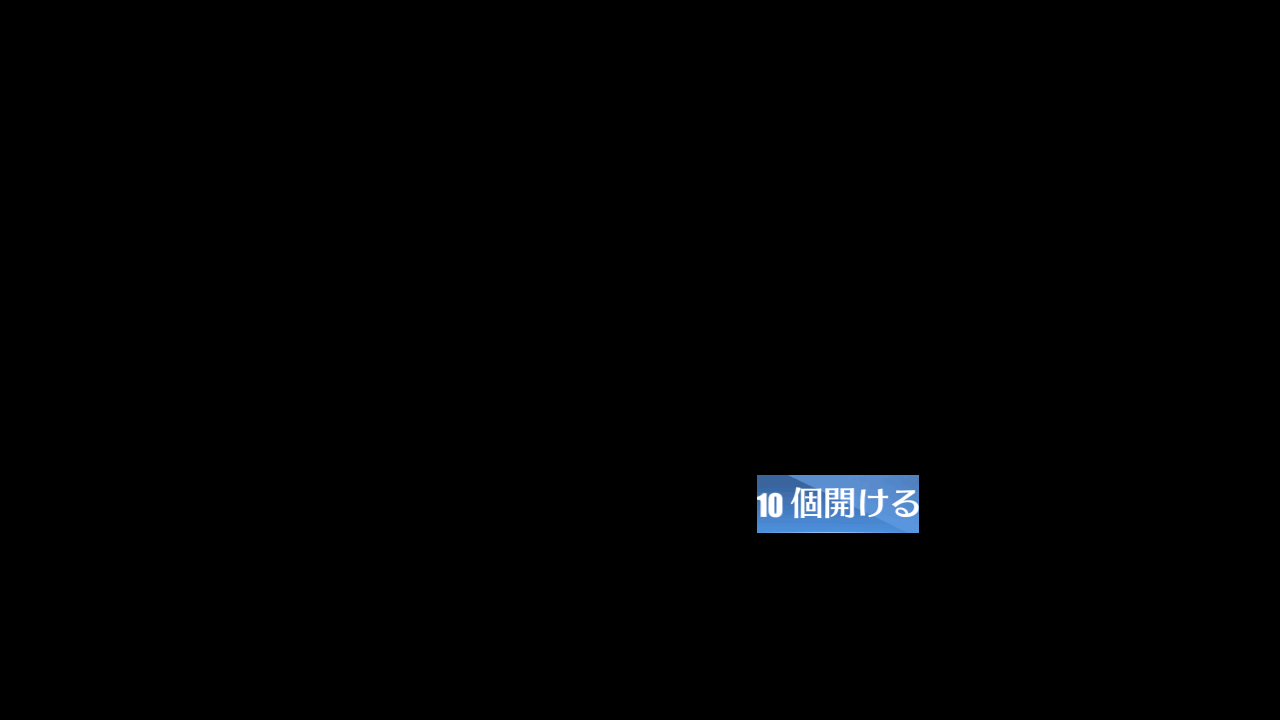
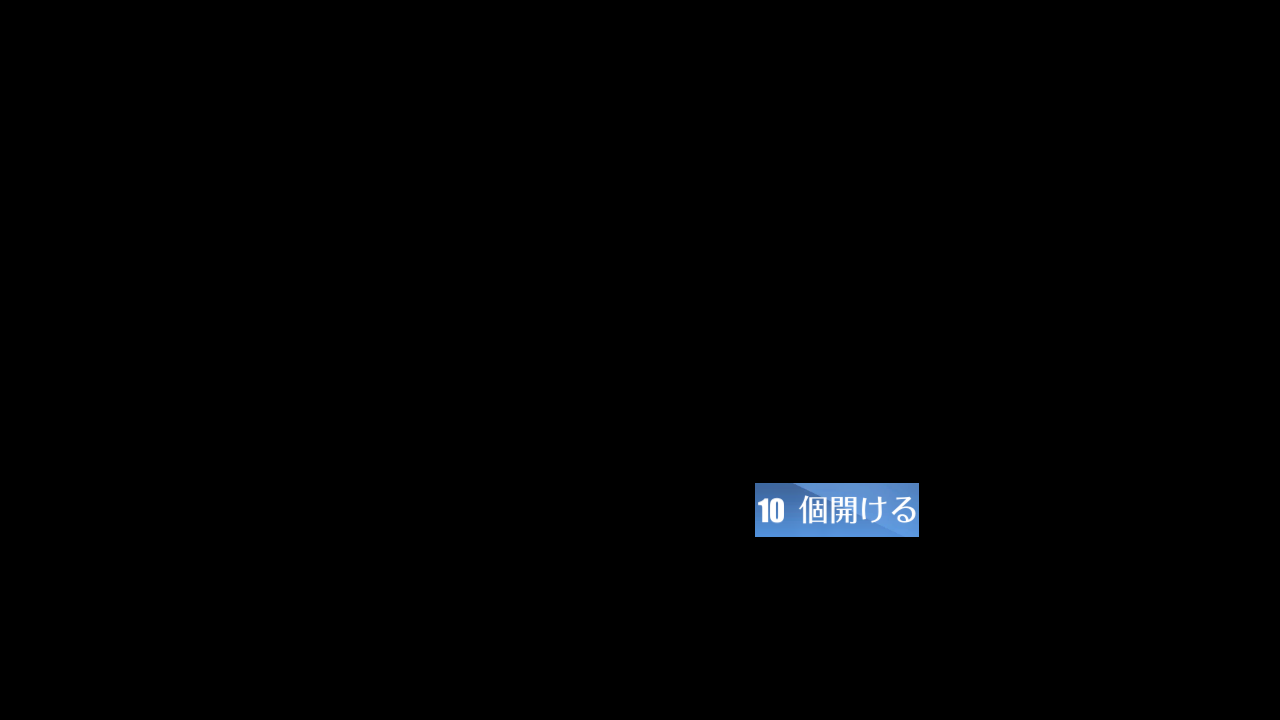
Upd: [JP] assets of storage module (#4276)

Changed region(s): [[0.5938, 0.6417, 0.7188, 0.7639]]

diff --git a/module/storage/assets.py b/module/storage/assets.py
@@ -4,7 +4,7 @@ from module.base.template import Template
 # This file was automatically generated by dev_tools/button_extract.py.
 # Don't modify it manually.
 
-BOX_USE = Button(area={'cn': (768, 486, 834, 522), 'en': (784, 497, 843, 523), 'jp': (823, 485, 919, 520), 'tw': (768, 486, 834, 522)}, color={'cn': (141, 173, 212), 'en': (156, 184, 220), 'jp': (141, 177, 223), 'tw': (141, 173, 212)}, button={'cn': (756, 480, 916, 528), 'en': (750, 483, 919, 535), 'jp': (757, 475, 919, 533), 'tw': (756, 480, 916, 528)}, file={'cn': './assets/cn/storage/BOX_USE.png', 'en': './assets/en/storage/BOX_USE.png', 'jp': './assets/jp/storage/BOX_USE.png', 'tw': './assets/cn/storage/BOX_USE.png'})
+BOX_USE = Button(area={'cn': (768, 486, 834, 522), 'en': (784, 497, 843, 523), 'jp': (827, 491, 918, 528), 'tw': (768, 486, 834, 522)}, color={'cn': (141, 173, 212), 'en': (156, 184, 220), 'jp': (128, 168, 219), 'tw': (141, 173, 212)}, button={'cn': (756, 480, 916, 528), 'en': (750, 483, 919, 535), 'jp': (755, 483, 919, 537), 'tw': (756, 480, 916, 528)}, file={'cn': './assets/cn/storage/BOX_USE.png', 'en': './assets/en/storage/BOX_USE.png', 'jp': './assets/jp/storage/BOX_USE.png', 'tw': './assets/cn/storage/BOX_USE.png'})
 DISASSEMBLE = Button(area={'cn': (357, 666, 456, 690), 'en': (346, 668, 467, 684), 'jp': (357, 663, 456, 691), 'tw': (357, 666, 456, 690)}, color={'cn': (191, 192, 192), 'en': (193, 193, 194), 'jp': (169, 170, 170), 'tw': (191, 192, 192)}, button={'cn': (348, 661, 466, 696), 'en': (346, 659, 467, 698), 'jp': (349, 657, 468, 700), 'tw': (348, 661, 466, 696)}, file={'cn': './assets/cn/storage/DISASSEMBLE.png', 'en': './assets/en/storage/DISASSEMBLE.png', 'jp': './assets/jp/storage/DISASSEMBLE.png', 'tw': './assets/cn/storage/DISASSEMBLE.png'})
 DISASSEMBLE_CANCEL = Button(area={'cn': (900, 659, 973, 690), 'en': (881, 659, 993, 684), 'jp': (899, 658, 971, 691), 'tw': (900, 659, 973, 690)}, color={'cn': (186, 186, 187), 'en': (192, 192, 193), 'jp': (167, 167, 168), 'tw': (186, 186, 187)}, button={'cn': (863, 649, 1015, 700), 'en': (854, 649, 1021, 699), 'jp': (860, 647, 1021, 704), 'tw': (863, 649, 1015, 700)}, file={'cn': './assets/cn/storage/DISASSEMBLE_CANCEL.png', 'en': './assets/en/storage/DISASSEMBLE_CANCEL.png', 'jp': './assets/jp/storage/DISASSEMBLE_CANCEL.png', 'tw': './assets/cn/storage/DISASSEMBLE_CANCEL.png'})
 DISASSEMBLE_CONFIRM = Button(area={'cn': (1108, 657, 1183, 690), 'en': (1063, 658, 1230, 681), 'jp': (1108, 657, 1185, 691), 'tw': (1108, 657, 1183, 690)}, color={'cn': (202, 149, 143), 'en': (204, 152, 145), 'jp': (198, 134, 126), 'tw': (202, 149, 143)}, button={'cn': (1067, 650, 1225, 698), 'en': (1063, 651, 1230, 697), 'jp': (1070, 645, 1230, 704), 'tw': (1067, 650, 1225, 698)}, file={'cn': './assets/cn/storage/DISASSEMBLE_CONFIRM.png', 'en': './assets/en/storage/DISASSEMBLE_CONFIRM.png', 'jp': './assets/jp/storage/DISASSEMBLE_CONFIRM.png', 'tw': './assets/cn/storage/DISASSEMBLE_CONFIRM.png'})
@@ -15,7 +15,7 @@ EQUIPMENT_ENTER = Button(area={'cn': (1021, 667, 1077, 691), 'en': (1020, 669, 1
 EQUIPMENT_FILTER = Button(area={'cn': (805, 23, 841, 38), 'en': (746, 23, 781, 36), 'jp': (792, 22, 854, 38), 'tw': (805, 23, 841, 38)}, color={'cn': (155, 171, 210), 'en': (142, 160, 201), 'jp': (96, 112, 160), 'tw': (155, 171, 210)}, button={'cn': (794, 7, 883, 45), 'en': (742, 13, 819, 36), 'jp': (791, 7, 885, 46), 'tw': (794, 7, 883, 45)}, file={'cn': './assets/cn/storage/EQUIPMENT_FILTER.png', 'en': './assets/en/storage/EQUIPMENT_FILTER.png', 'jp': './assets/jp/storage/EQUIPMENT_FILTER.png', 'tw': './assets/cn/storage/EQUIPMENT_FILTER.png'})
 EQUIPMENT_FILTER_CONFIRM = Button(area={'cn': (763, 615, 837, 646), 'en': (734, 620, 865, 643), 'jp': (761, 613, 838, 648), 'tw': (763, 615, 837, 646)}, color={'cn': (140, 172, 211), 'en': (156, 183, 217), 'jp': (120, 157, 203), 'tw': (140, 172, 211)}, button={'cn': (721, 605, 881, 657), 'en': (727, 608, 872, 653), 'jp': (721, 602, 885, 660), 'tw': (721, 605, 881, 657)}, file={'cn': './assets/cn/storage/EQUIPMENT_FILTER_CONFIRM.png', 'en': './assets/en/storage/EQUIPMENT_FILTER_CONFIRM.png', 'jp': './assets/jp/storage/EQUIPMENT_FILTER_CONFIRM.png', 'tw': './assets/cn/storage/EQUIPMENT_FILTER_CONFIRM.png'})
 EQUIPMENT_FULL = Button(area={'cn': (453, 498, 527, 528), 'en': (460, 499, 521, 520), 'jp': (450, 496, 529, 529), 'tw': (453, 498, 527, 528)}, color={'cn': (154, 183, 221), 'en': (168, 194, 226), 'jp': (134, 170, 216), 'tw': (154, 183, 221)}, button={'cn': (413, 487, 569, 538), 'en': (421, 489, 566, 534), 'jp': (410, 482, 574, 540), 'tw': (413, 487, 569, 538)}, file={'cn': './assets/cn/storage/EQUIPMENT_FULL.png', 'en': './assets/en/storage/EQUIPMENT_FULL.png', 'jp': './assets/jp/storage/EQUIPMENT_FULL.png', 'tw': './assets/cn/storage/EQUIPMENT_FULL.png'})
-MATERIAL_CHECK = Button(area={'cn': (258, 664, 305, 687), 'en': (1123, 658, 1156, 691), 'jp': (90, 664, 137, 689), 'tw': (258, 664, 305, 687)}, color={'cn': (106, 106, 111), 'en': (195, 161, 99), 'jp': (117, 116, 122), 'tw': (106, 106, 111)}, button={'cn': (258, 664, 305, 687), 'en': (1123, 658, 1156, 691), 'jp': (90, 664, 137, 689), 'tw': (258, 664, 305, 687)}, file={'cn': './assets/cn/storage/MATERIAL_CHECK.png', 'en': './assets/en/storage/MATERIAL_CHECK.png', 'jp': './assets/jp/storage/MATERIAL_CHECK.png', 'tw': './assets/cn/storage/MATERIAL_CHECK.png'})
+MATERIAL_CHECK = Button(area={'cn': (258, 664, 305, 687), 'en': (1123, 658, 1156, 691), 'jp': (89, 662, 138, 690), 'tw': (258, 664, 305, 687)}, color={'cn': (106, 106, 111), 'en': (195, 161, 99), 'jp': (94, 93, 99), 'tw': (106, 106, 111)}, button={'cn': (258, 664, 305, 687), 'en': (1123, 658, 1156, 691), 'jp': (89, 662, 138, 690), 'tw': (258, 664, 305, 687)}, file={'cn': './assets/cn/storage/MATERIAL_CHECK.png', 'en': './assets/en/storage/MATERIAL_CHECK.png', 'jp': './assets/jp/storage/MATERIAL_CHECK.png', 'tw': './assets/cn/storage/MATERIAL_CHECK.png'})
 MATERIAL_ENTER = Button(area={'cn': (1180, 666, 1237, 691), 'en': (1184, 669, 1227, 685), 'jp': (1178, 666, 1238, 692), 'tw': (1180, 666, 1237, 691)}, color={'cn': (217, 179, 119), 'en': (202, 163, 103), 'jp': (217, 176, 116), 'tw': (217, 179, 119)}, button={'cn': (1114, 656, 1251, 698), 'en': (1121, 663, 1243, 685), 'jp': (1107, 652, 1256, 702), 'tw': (1114, 656, 1251, 698)}, file={'cn': './assets/cn/storage/MATERIAL_ENTER.png', 'en': './assets/en/storage/MATERIAL_ENTER.png', 'jp': './assets/jp/storage/MATERIAL_ENTER.png', 'tw': './assets/cn/storage/MATERIAL_ENTER.png'})
 MATERIAL_STABLE_CHECK = Button(area={'cn': (858, 422, 1231, 631), 'en': (858, 422, 1231, 631), 'jp': (858, 422, 1231, 631), 'tw': (858, 422, 1231, 631)}, color={'cn': (116, 127, 145), 'en': (116, 127, 145), 'jp': (116, 127, 145), 'tw': (116, 127, 145)}, button={'cn': (858, 422, 1231, 631), 'en': (858, 422, 1231, 631), 'jp': (858, 422, 1231, 631), 'tw': (858, 422, 1231, 631)}, file={'cn': './assets/cn/storage/MATERIAL_STABLE_CHECK.png', 'en': './assets/en/storage/MATERIAL_STABLE_CHECK.png', 'jp': './assets/jp/storage/MATERIAL_STABLE_CHECK.png', 'tw': './assets/tw/storage/MATERIAL_STABLE_CHECK.png'})
 METERIAL_SCROLL = Button(area={'cn': (1257, 94, 1263, 585), 'en': (1257, 94, 1263, 585), 'jp': (1257, 94, 1263, 585), 'tw': (1257, 94, 1263, 585)}, color={'cn': (101, 93, 56), 'en': (101, 93, 56), 'jp': (101, 93, 56), 'tw': (101, 93, 56)}, button={'cn': (1257, 94, 1263, 585), 'en': (1257, 94, 1263, 585), 'jp': (1257, 94, 1263, 585), 'tw': (1257, 94, 1263, 585)}, file={'cn': './assets/cn/storage/METERIAL_SCROLL.png', 'en': './assets/en/storage/METERIAL_SCROLL.png', 'jp': './assets/jp/storage/METERIAL_SCROLL.png', 'tw': './assets/tw/storage/METERIAL_SCROLL.png'})
